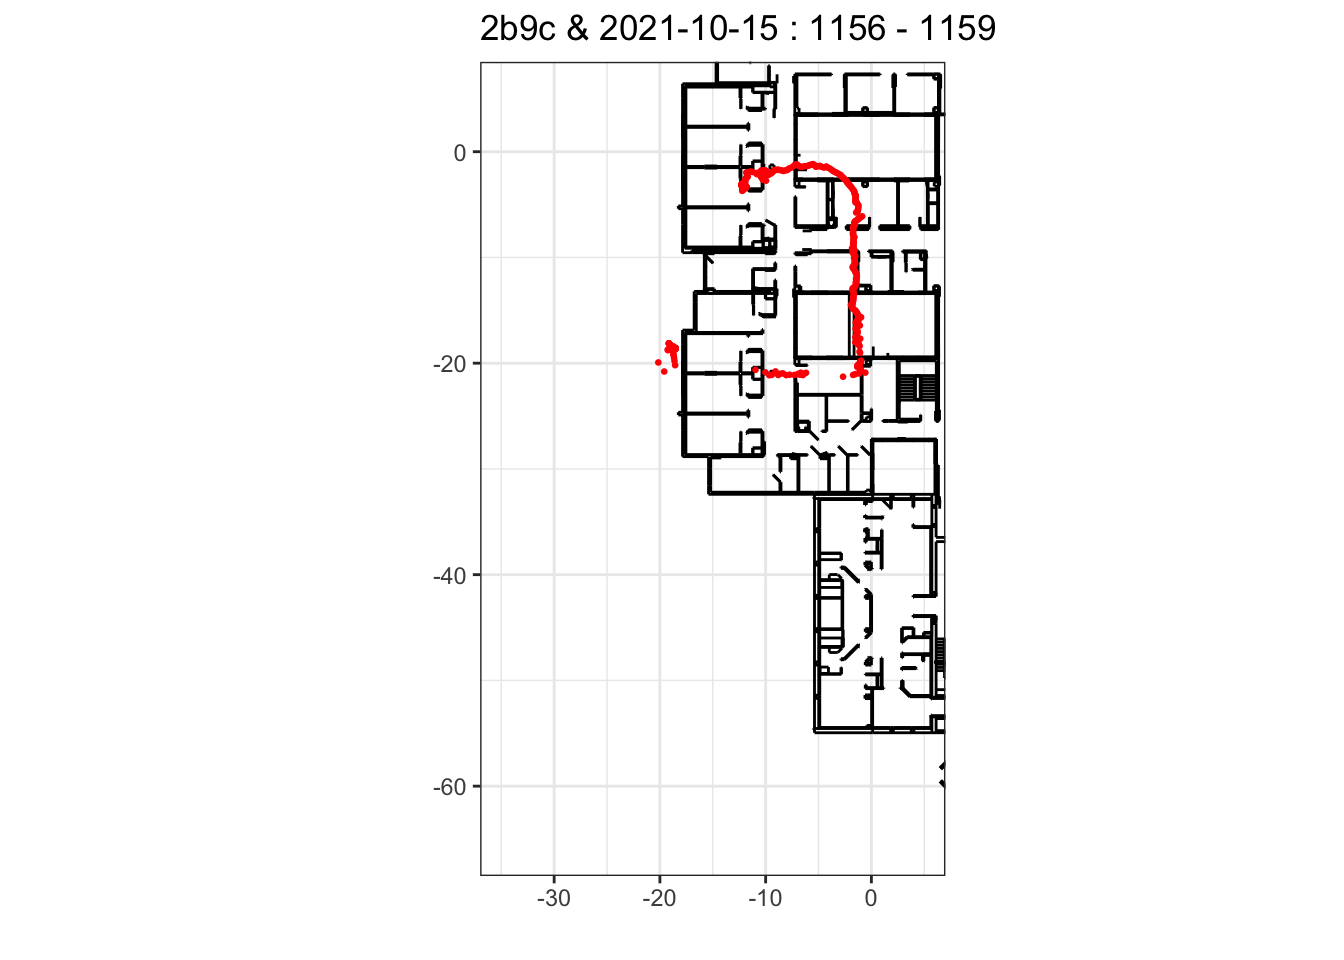
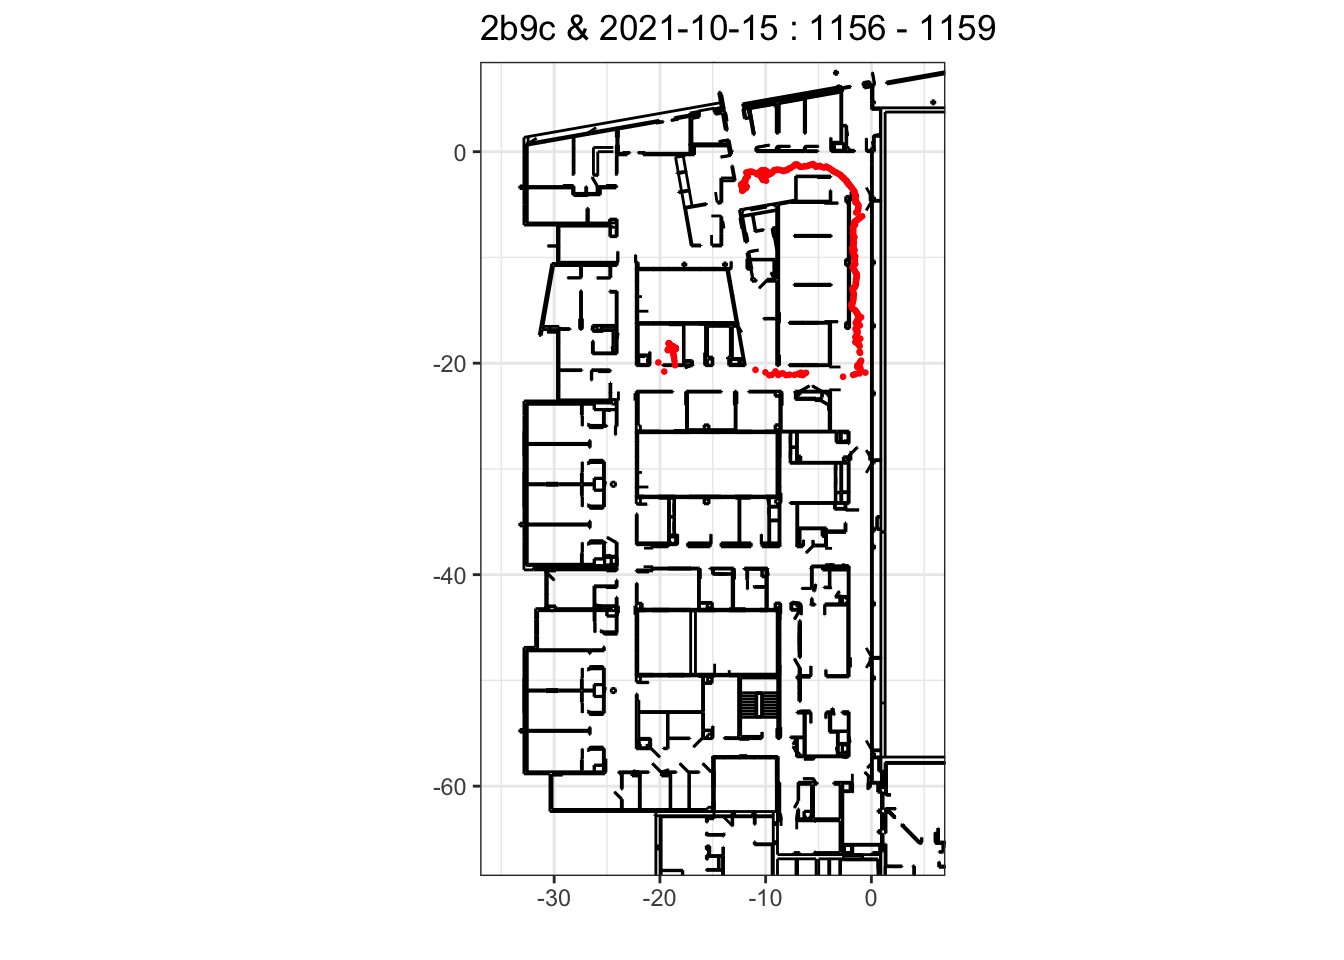
Build site.

Changed region(s): [[0.375, 0.0625, 0.7188, 0.9062]]

diff --git a/docs/indoor_path.html b/docs/indoor_path.html
@@ -429,16 +429,16 @@ This reproducible <a href="http://rmarkdown.rstudio.com">R Markdown</a> analysis
 <div class="panel panel-default">
 <div class="panel-heading">
 <p class="panel-title">
-<a data-toggle="collapse" data-parent="#workflowr-checks" href="#strongRepositoryversionstrongahrefhttpsgithubcomcfcforeverTesttree31107895bc2133aa3b05d2e5a2a4e8080505b967targetblank3110789a"> <span class="glyphicon glyphicon-ok text-success" aria-hidden="true"></span> <strong>Repository version:</strong> <a href="https://github.com/cfcforever/Test/tree/31107895bc2133aa3b05d2e5a2a4e8080505b967" target="_blank">3110789</a> </a>
+<a data-toggle="collapse" data-parent="#workflowr-checks" href="#strongRepositoryversionstrongahrefhttpsgithubcomcfcforeverTesttree43da23c11f2051f6f79f02f07833d25ad0a5076atargetblank43da23ca"> <span class="glyphicon glyphicon-ok text-success" aria-hidden="true"></span> <strong>Repository version:</strong> <a href="https://github.com/cfcforever/Test/tree/43da23c11f2051f6f79f02f07833d25ad0a5076a" target="_blank">43da23c</a> </a>
 </p>
 </div>
[2 lines of base64/hex data omitted]
 <div class="panel-body">
 <p>
 Great! You are using Git for version control. Tracking code development and connecting the code version to the results is critical for reproducibility.
 </p>
 <p>
-The results in this page were generated with repository version <a href="https://github.com/cfcforever/Test/tree/31107895bc2133aa3b05d2e5a2a4e8080505b967" target="_blank">3110789</a>. See the <em>Past versions</em> tab to see a history of the changes made to the R Markdown and HTML files.
+The results in this page were generated with repository version <a href="https://github.com/cfcforever/Test/tree/43da23c11f2051f6f79f02f07833d25ad0a5076a" target="_blank">43da23c</a>. See the <em>Past versions</em> tab to see a history of the changes made to the R Markdown and HTML files.
 </p>
 <p>
 Note that you need to be careful to ensure that all relevant files for the analysis have been committed to Git prior to generating the results (you can use <code>wflow_publish</code> or <code>wflow_git_commit</code>). workflowr only checks the R Markdown file, but you know if there are other scripts or data files that it depends on. Below is the status of the Git repository when the results were generated:
@@ -495,6 +495,40 @@ Message
 </tr>
 </thead>
 <tbody>
+<tr>
+<td>
+Rmd
+</td>
+<td>
+<a href="https://github.com/cfcforever/Test/blob/43da23c11f2051f6f79f02f07833d25ad0a5076a/analysis/indoor_path.Rmd" target="_blank">43da23c</a>
+</td>
+<td>
+cfcforever
+</td>
+<td>
+2021-10-24
+</td>
+<td>
+some changes
+</td>
+</tr>
+<tr>
+<td>
+html
+</td>
+<td>
+<a href="https://rawcdn.githack.com/cfcforever/Test/b53d8fd5f648203bc3e6423370fbdf48195cc79b/docs/indoor_path.html" target="_blank">b53d8fd</a>
+</td>
+<td>
+cfcforever
+</td>
+<td>
+2021-10-24
+</td>
+<td>
+Build site.
+</td>
+</tr>
 <tr>
 <td>
 Rmd
@@ -558,7 +592,7 @@ minor changes
   library(dplyr)
   library(ggplot2)
   
-  load(&quot;data/plan/plan_firminy.RData&quot;)
+  load(&quot;data/plan/plan_firminy_old.RData&quot;)
   
   tag_data &lt;- read.csv2(paste0(&quot;data/json/&quot;, day, &quot;/&quot;, tagId, &quot;.csv&quot;))
   t1 = head(which(paste0(sprintf(&quot;%02d&quot;, tag_data$H), sprintf(&quot;%02d&quot;, tag_data$M))==start_time), 1)
@@ -596,6 +630,17 @@ Date
 </tr>
 </thead>
 <tbody>
+<tr>
+<td>
+<a href="https://github.com/cfcforever/Test/blob/b53d8fd5f648203bc3e6423370fbdf48195cc79b/docs/figure/indoor_path.Rmd/unnamed-chunk-2-1.png" target="_blank">b53d8fd</a>
+</td>
+<td>
+cfcforever
+</td>
+<td>
+2021-10-24
+</td>
+</tr>
 <tr>
 <td>
 <a href="https://github.com/cfcforever/Test/blob/521a8d535d60f26e5166a03d22d80dab6bc113aa/docs/figure/indoor_path.Rmd/unnamed-chunk-2-1.png" target="_blank">521a8d5</a>
@@ -637,6 +682,17 @@ Date
 <tbody>
 <tr>
 <td>
+<a href="https://github.com/cfcforever/Test/blob/b53d8fd5f648203bc3e6423370fbdf48195cc79b/docs/figure/indoor_path.Rmd/unnamed-chunk-2-2.png" target="_blank">b53d8fd</a>
+</td>
+<td>
+cfcforever
+</td>
+<td>
+2021-10-24
+</td>
+</tr>
+<tr>
+<td>
 <a href="https://github.com/cfcforever/Test/blob/521a8d535d60f26e5166a03d22d80dab6bc113aa/docs/figure/indoor_path.Rmd/unnamed-chunk-2-2.png" target="_blank">521a8d5</a>
 </td>
 <td>
@@ -674,6 +730,17 @@ Date
 </tr>
 </thead>
 <tbody>
+<tr>
+<td>
+<a href="https://github.com/cfcforever/Test/blob/b53d8fd5f648203bc3e6423370fbdf48195cc79b/docs/figure/indoor_path.Rmd/unnamed-chunk-2-3.png" target="_blank">b53d8fd</a>
+</td>
+<td>
+cfcforever
+</td>
+<td>
+2021-10-24
+</td>
+</tr>
 <tr>
 <td>
 <a href="https://github.com/cfcforever/Test/blob/521a8d535d60f26e5166a03d22d80dab6bc113aa/docs/figure/indoor_path.Rmd/unnamed-chunk-2-3.png" target="_blank">521a8d5</a>
@@ -715,6 +782,17 @@ Date
 <tbody>
 <tr>
 <td>
+<a href="https://github.com/cfcforever/Test/blob/b53d8fd5f648203bc3e6423370fbdf48195cc79b/docs/figure/indoor_path.Rmd/unnamed-chunk-2-4.png" target="_blank">b53d8fd</a>
+</td>
+<td>
+cfcforever
+</td>
+<td>
+2021-10-24
+</td>
+</tr>
+<tr>
+<td>
 <a href="https://github.com/cfcforever/Test/blob/521a8d535d60f26e5166a03d22d80dab6bc113aa/docs/figure/indoor_path.Rmd/unnamed-chunk-2-4.png" target="_blank">521a8d5</a>
 </td>
 <td>
@@ -752,6 +830,17 @@ Date
 </tr>
 </thead>
 <tbody>
+<tr>
+<td>
+<a href="https://github.com/cfcforever/Test/blob/b53d8fd5f648203bc3e6423370fbdf48195cc79b/docs/figure/indoor_path.Rmd/unnamed-chunk-2-5.png" target="_blank">b53d8fd</a>
+</td>
+<td>
+cfcforever
+</td>
+<td>
+2021-10-24
+</td>
+</tr>
 <tr>
 <td>
 <a href="https://github.com/cfcforever/Test/blob/521a8d535d60f26e5166a03d22d80dab6bc113aa/docs/figure/indoor_path.Rmd/unnamed-chunk-2-5.png" target="_blank">521a8d5</a>
